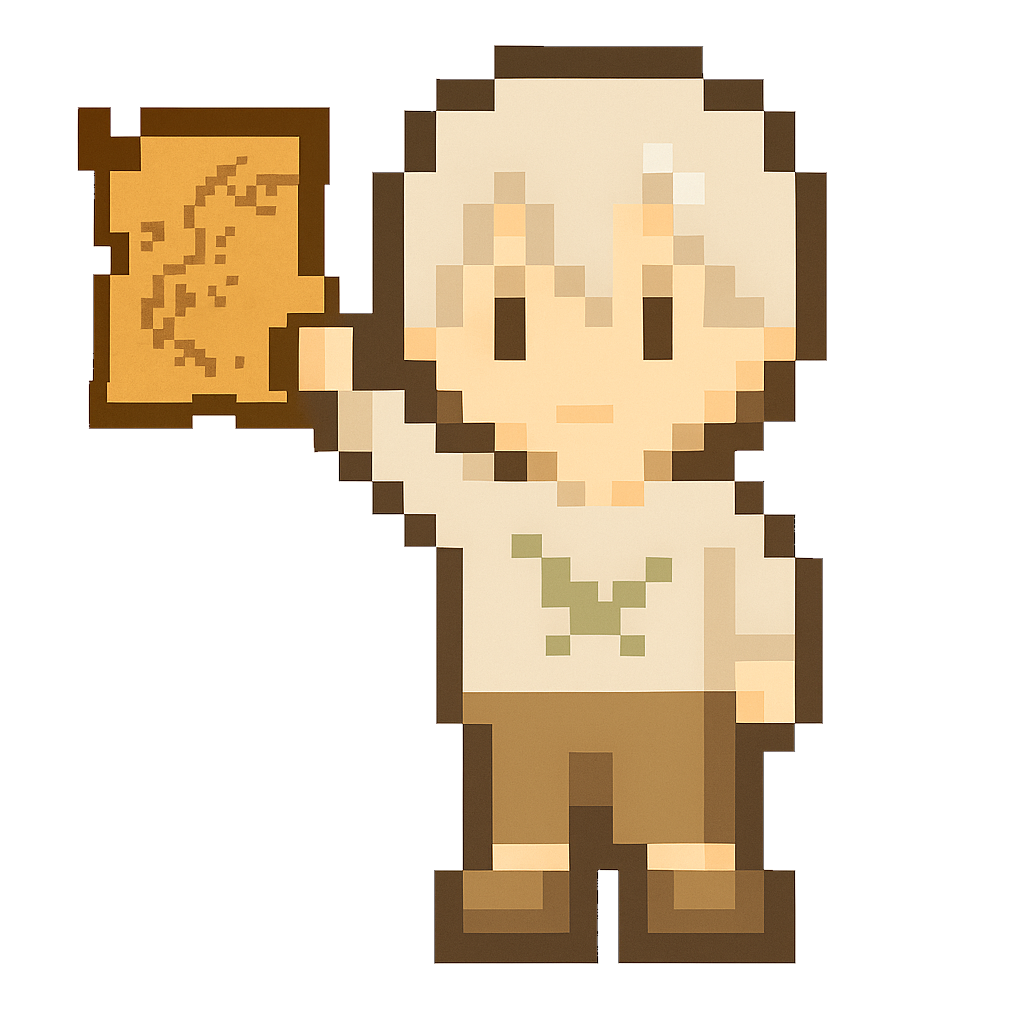
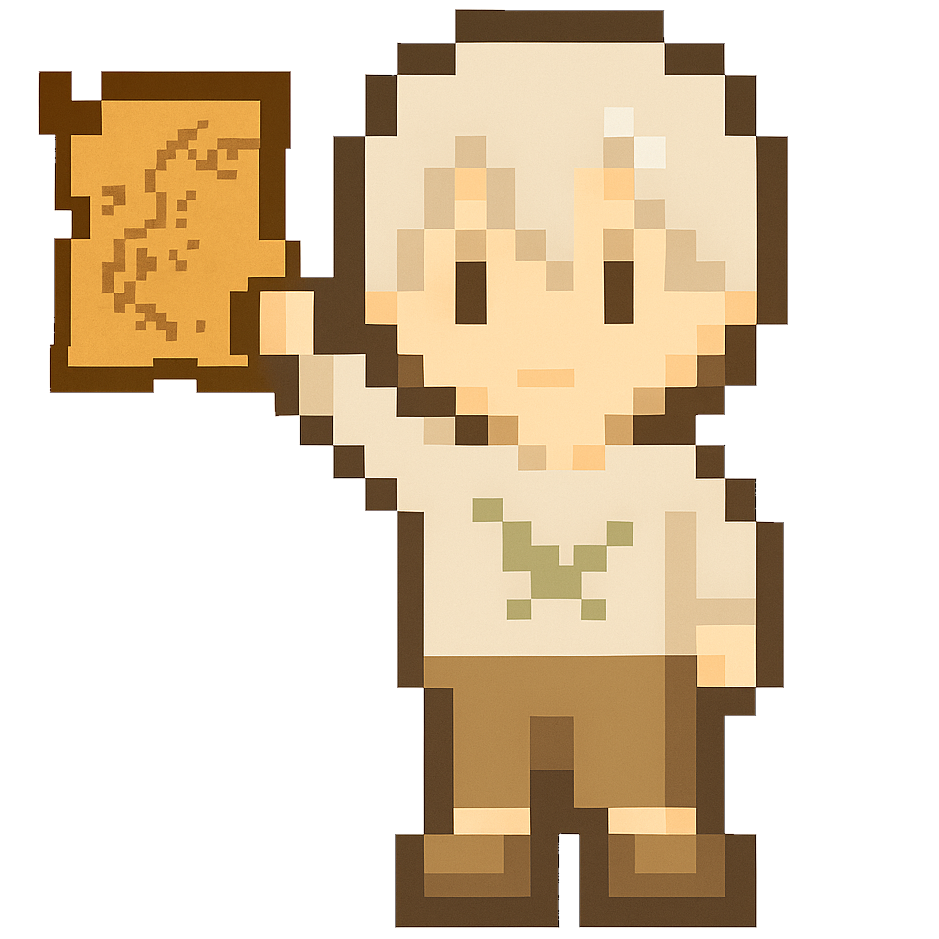
ゴールについて更新

Changed region(s): [[0.0309, 0.0, 0.8647, 0.9883], [0.5868, 0.3706, 0.6177, 0.4324]]

diff --git a/unilab2025/Stage.cs b/unilab2025/Stage.cs
@@ -1691,7 +1691,8 @@ namespace unilab2025
                         {
                             g2.Clear(Color.Transparent);
                             Image character = Dictionaries.Img_DotPic["ゴール"];
-                            g2.DrawImage(character, x_now * cell_length - extra_length-6, y_now * cell_length - 2 * extra_length, cell_length + 2 * extra_length, cell_length + 2 * extra_length);
+                            if(MainCharacter.isGirl) g2.DrawImage(character, x_now * cell_length - extra_length+5, y_now * cell_length - 2 * extra_length, cell_length + 2 * extra_length, cell_length + 2 * extra_length);
+                            else g2.DrawImage(character, x_now * cell_length - extra_length-6, y_now * cell_length - 2 * extra_length, cell_length + 2 * extra_length, cell_length + 2 * extra_length);
                             
                             pictureBox_Map2.Refresh();
                         }
